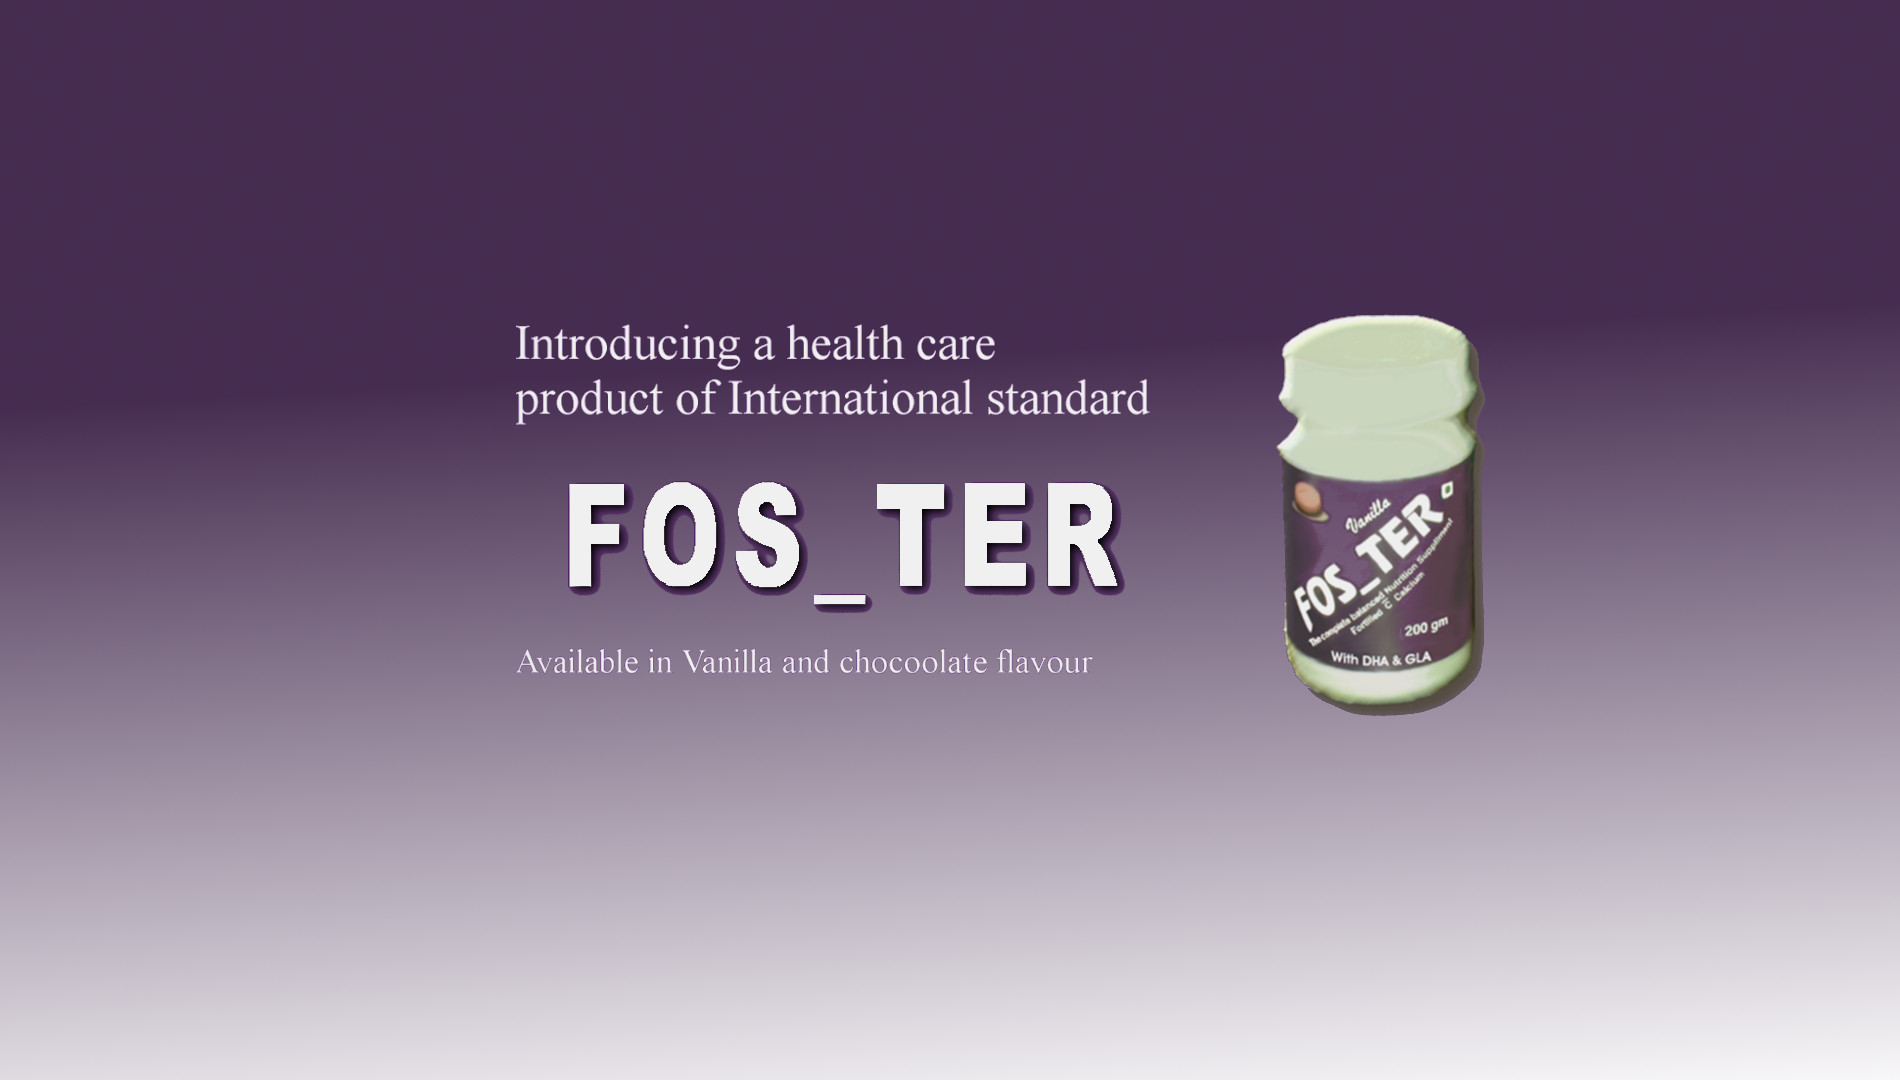
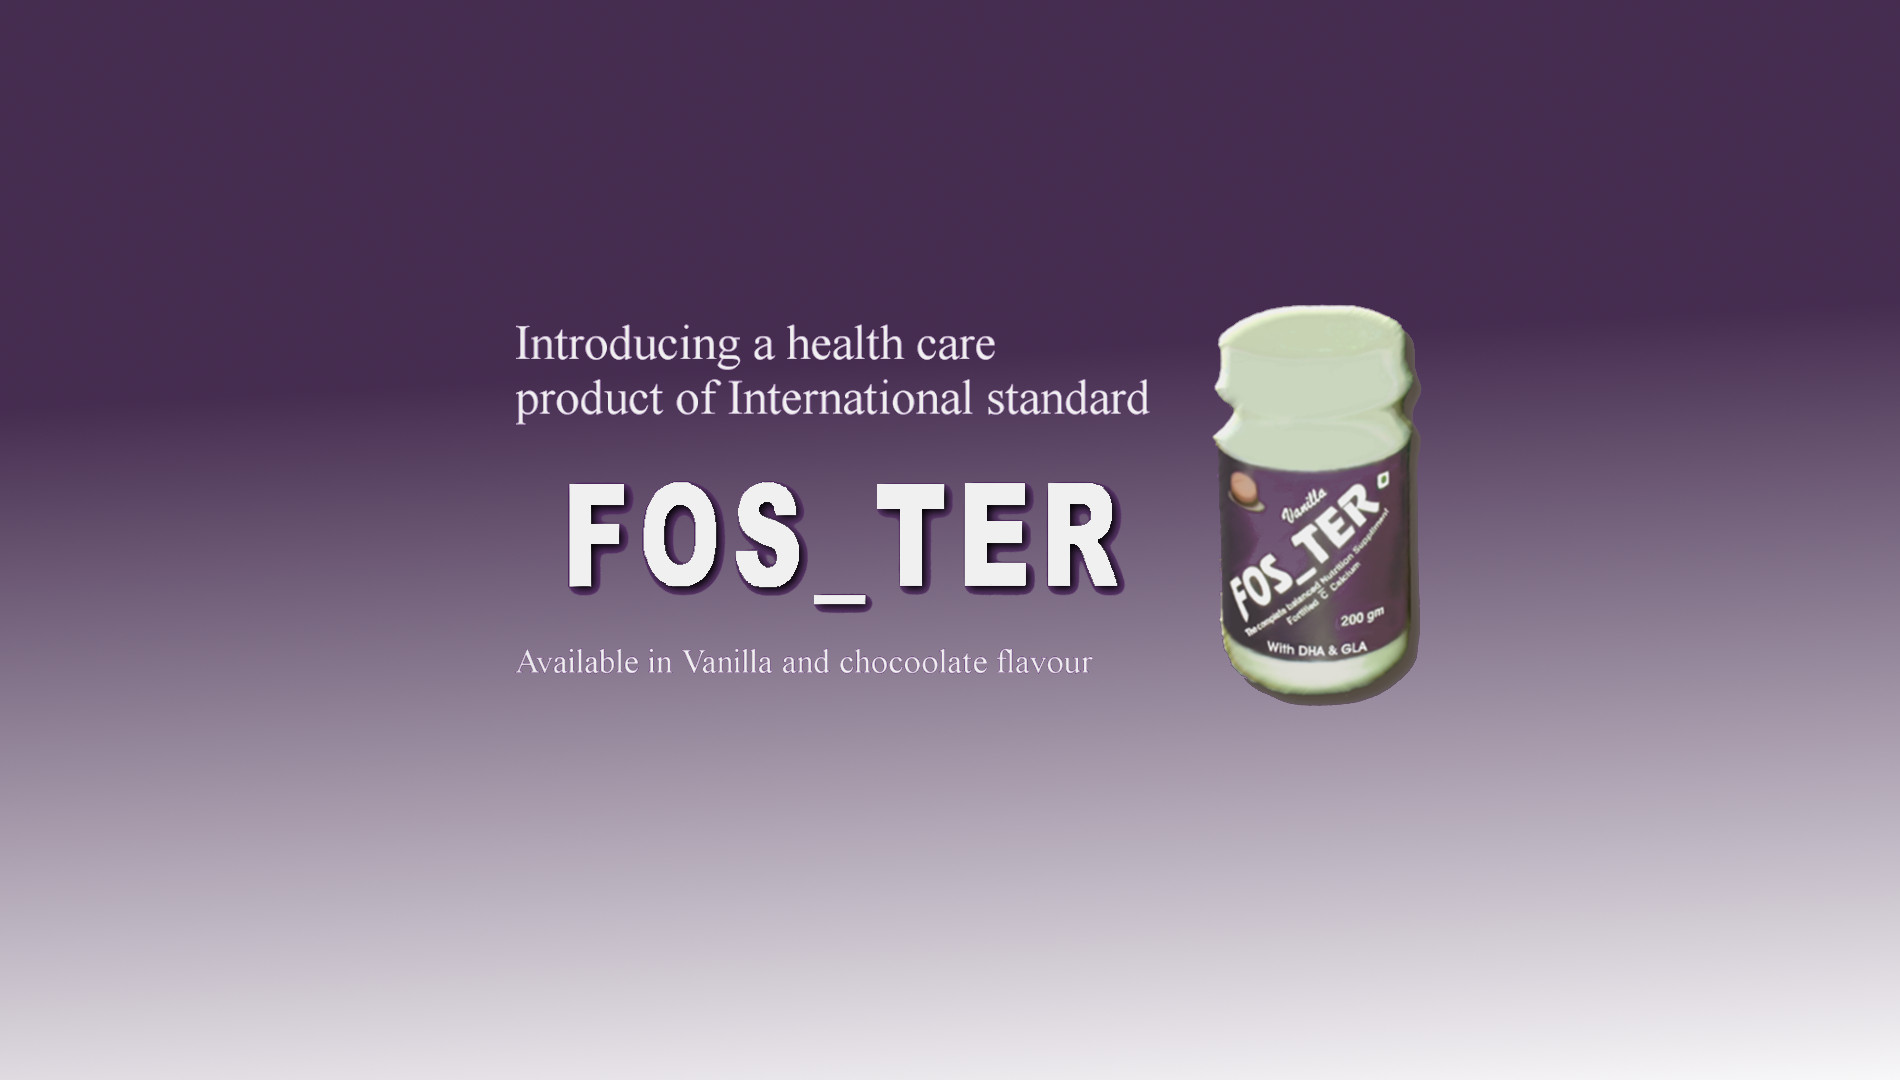
@Sangu Slider 3 Image added

Changed region(s): [[0.6211, 0.275, 0.8074, 0.6722]]

diff --git a/omorganics/index.html b/omorganics/index.html
@@ -82,7 +82,7 @@
                 <div class="fill" style="background-image:url('img/slider2.jpg');"></div>
             </div>
             <div class="item">
-                <div class="fill" style="background-image:url('img/slider2.jpg');"></div>
+                <div class="fill" style="background-image:url('img/slider3.jpg');"></div>
             </div>
         </div>
 
